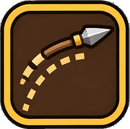
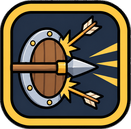
창병 수비 태세·휩쓸기 아이콘 적용(베타 1.335), 휩쓸기 이펙트 요청 문구
Claude-Session: https://claude.ai/code/session_01EFTEodMUbbTSUTixRFZg7z

diff --git a/client/src/mercpanel.ts b/client/src/mercpanel.ts
@@ -14,7 +14,6 @@ export interface MercPanel {
   hovered(): number;
 }
 
-const SPEAR_ICON_ORDER = [3, 1, 2, 4] as const; // 2단 찌르기=두 번 찌르는 그림, 수비 태세=창과 방패 그림, 휩쓸기=휘어진 호 그림
 const SKILL_ICON = ["cav", "spear", "archer", "shield", "blunt", "mage"] as const;
 /** 승급 스킬 4칸: 얻은 스킬은 밝게, 아직인 스킬은 어둡게(금색 테두리 = 액티브, 은청색 = 패시브). 마우스를 올리면 설명 */
 function skillStrip(type: number, tier: number): HTMLElement {
@@ -22,7 +21,7 @@ function skillStrip(type: number, tier: number): HTMLElement {
   box.className = "skstrip";
   (MERC_SKILLS[type] ?? []).forEach((sk, i) => {
     const img = document.createElement("img");
-    img.src = `assets/ui/mskill_${SKILL_ICON[type]}_${(type === 1 ? SPEAR_ICON_ORDER[i]! : i + 1)}.png`; // 창병은 스킬이 바뀌어 맞는 그림을 임시로 돌려 쓴다(새 그림을 받기 전까지)
+    img.src = `assets/ui/mskill_${SKILL_ICON[type]}_${(i + 1)}.png`;
     img.className = tier >= i + 1 ? "on" : "off";
     img.title = `${i + 1}단계 ${sk.name} (${sk.kind === "passive" ? "패시브" : "액티브"}): ${sk.desc}`;
     img.onerror = () => img.remove(); // 그림이 아직 없는 병종은 칸을 감춘다

diff --git a/docs/merc-skill-assets.md b/docs/merc-skill-assets.md
@@ -247,4 +247,26 @@ Style: cute chibi cartoon like Image 1, flat cel-shaded colors in 2-3 tones, thi
 Avoid: realistic style, gradients, glow blur, thin lines, tiny details, text inside icons, cropped items, checkerboard pattern, logo, watermark, any text other than the two captions.
 ```
 
-**받은 뒤**: `tools/remove_flat_bg.py`로 배경을 지우고 `tools/slice_sheet.py`(`--rows 1 --scale 0.32 --min-height 150 --attach 4`)로 자른 뒤, 클라이언트의 임시 순서(`SPEAR_ICON_ORDER`)를 지운다.
+**받음, 적용됨(베타 1.335)**: 수비 태세=`mskill_spear_2`(방패와 튕기는 화살), 휩쓸기=`mskill_spear_3`(크게 휘두르는 호와 밀려나는 적), 2단 찌르기=`mskill_spear_1`(두 번 찌르는 그림을 옮김). 예전 그림은 `_old`로 보관, 임시 순서(`SPEAR_ICON_ORDER`)는 지웠다.
+
+**(원래 계획)**: `tools/remove_flat_bg.py`로 배경을 지우고 `tools/slice_sheet.py`(`--rows 1 --scale 0.32 --min-height 150 --attach 4`)로 자른 뒤, 클라이언트의 임시 순서(`SPEAR_ICON_ORDER`)를 지운다.
+
+## 7. 휩쓸기 이펙트 요청 (`assets/fx/mskill_swing_0~3`)
+
+**쓰이는 곳**: 창병 3단계 패시브 "휩쓸기"(25% 확률로 전방 약 160도를 훑는 공격). 지금은 방패 밀치기용 흰 반원 그림을 임시로 쓴다. 창을 크게 휘두르는 **넓은 호 + 속도선** 4컷을 새로 받는다. 첨부: `main_style_sheet.png` 한 장.
+**방향/크기**: 오른쪽(전방)으로 휘두르는 모양, 4컷 모두 같은 캔버스(약 300x200)·같은 기준점(창병 앞쪽 중심)으로.
+
+```
+Generate an image. I attached one image: Image 1 is the art STYLE reference (copy its flat cel-shaded, thick-outlined cartoon style). Draw a short VISUAL EFFECT animation, four frames in one row, on a plain flat light-gray background with at least 40px of empty space around each frame, captions "mskill_swing_0", "mskill_swing_1", "mskill_swing_2", "mskill_swing_3". No characters, no weapons, no ground line, no logo or watermark.
+
+The effect is a WIDE SPEAR SWEEP: a spear swung in a big horizontal arc in front of the wielder, seen from the side, sweeping toward the RIGHT of the picture (the wielder stands at the left):
+- frame 0: a thin crescent arc just starting at the upper left, cream-white with a pale orange edge, with three short speed lines trailing behind it;
+- frame 1: the arc grows into a big wide crescent covering about 160 degrees of a circle opening to the left, thick in the middle and tapering at both ends, bright cream-white core with pale orange outer band, a few small flat white sparks along its outer edge;
+- frame 2: the arc at its widest and brightest, slightly thicker, with five small flat starburst impacts (pale yellow and white) scattered along the front of the arc;
+- frame 3: the arc fading: thinner and paler, impacts gone, only two or three tiny sparks and faint speed lines left.
+Style: flat cel-shaded shapes in 2-3 tones, a thick dark orange-brown outline about 2px, warm cream-white and pale orange palette (NOT green, NOT blue), no gradients, no glow blur, no realistic smoke. All four frames centered on the same point and the same canvas size, each about 300x200 in a 4x1 layout.
+
+Avoid: green or blue colors, gradients, glow blur, realistic smoke, characters, spear shaft, text other than the four captions, ground line, logo, watermark.
+```
+
+**받은 뒤**: `tools/slice_fx_rows.py`(`--rows swing:4`)로 자르고, 클라이언트의 `MSK_FRAMES`에 `swing: 4`를 넣은 뒤 `MSK_DEF[13]`을 `swing`으로 바꾼다.
